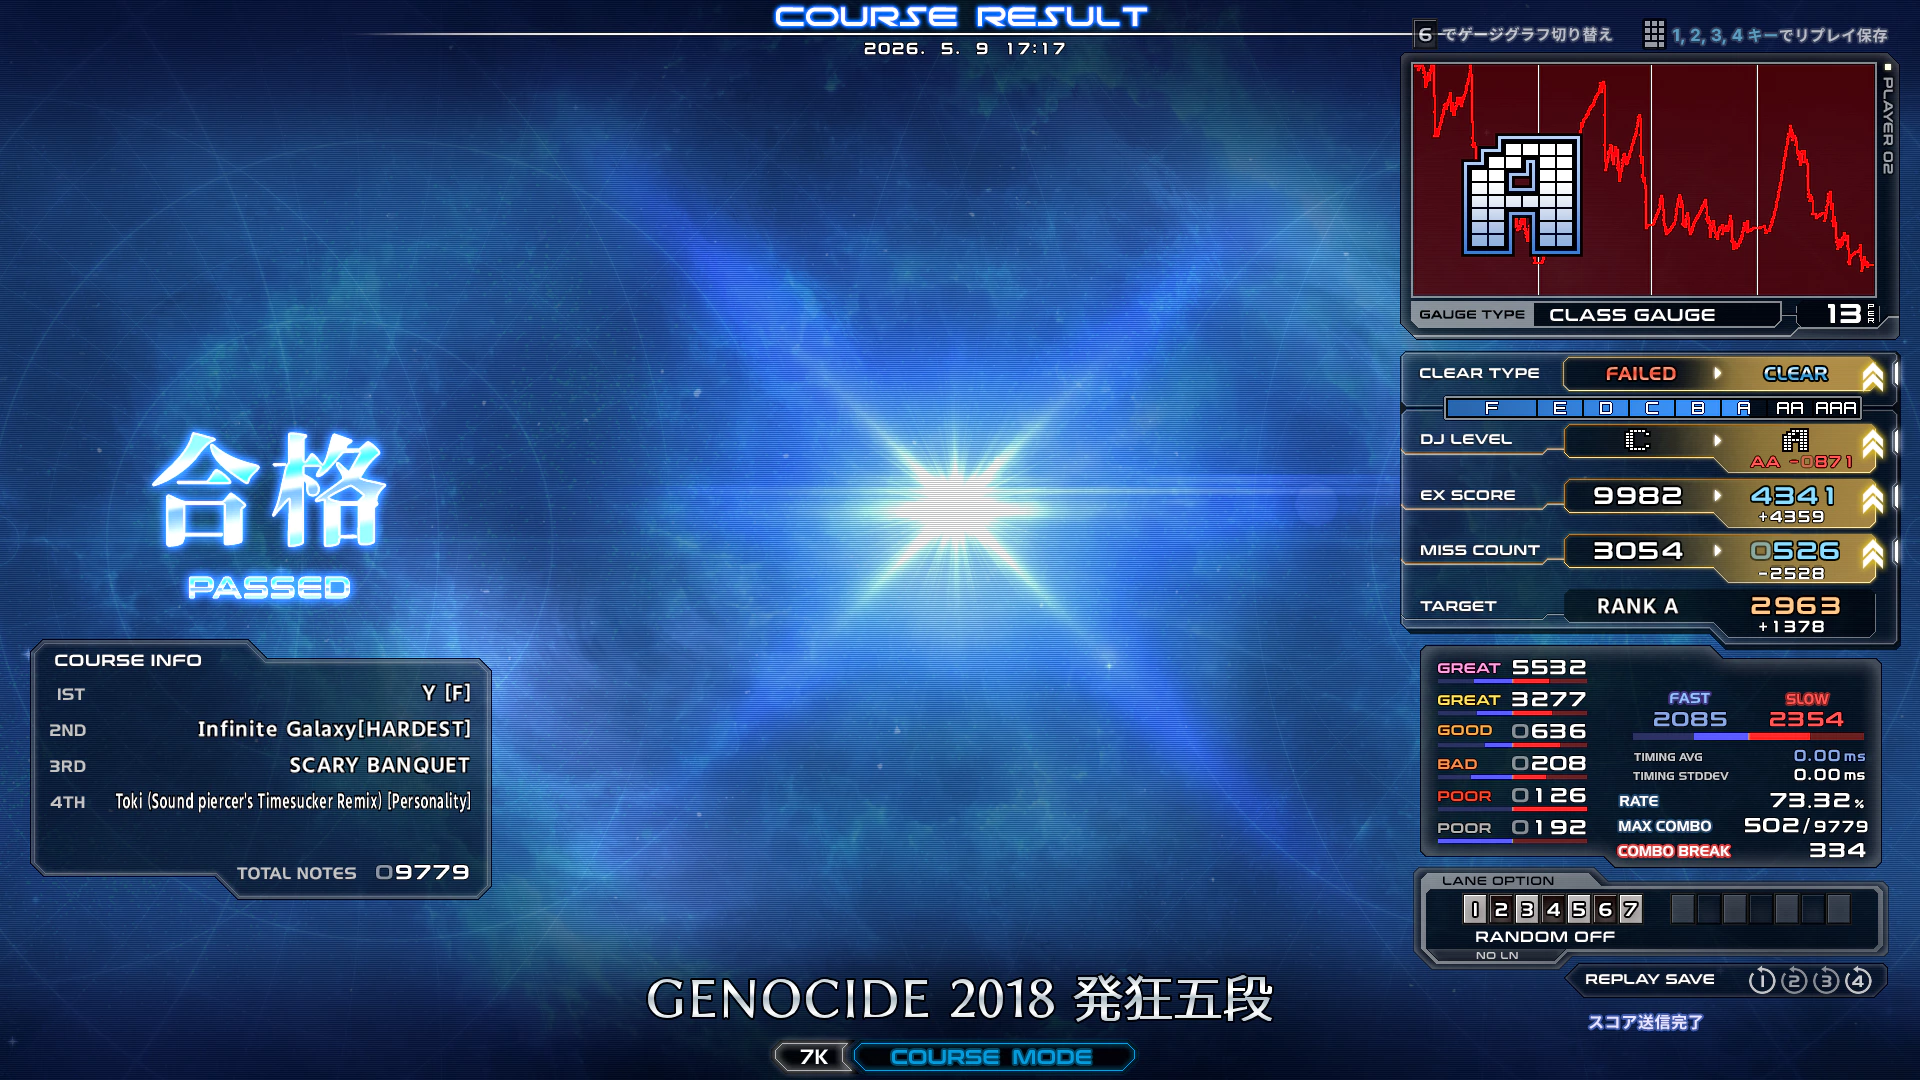
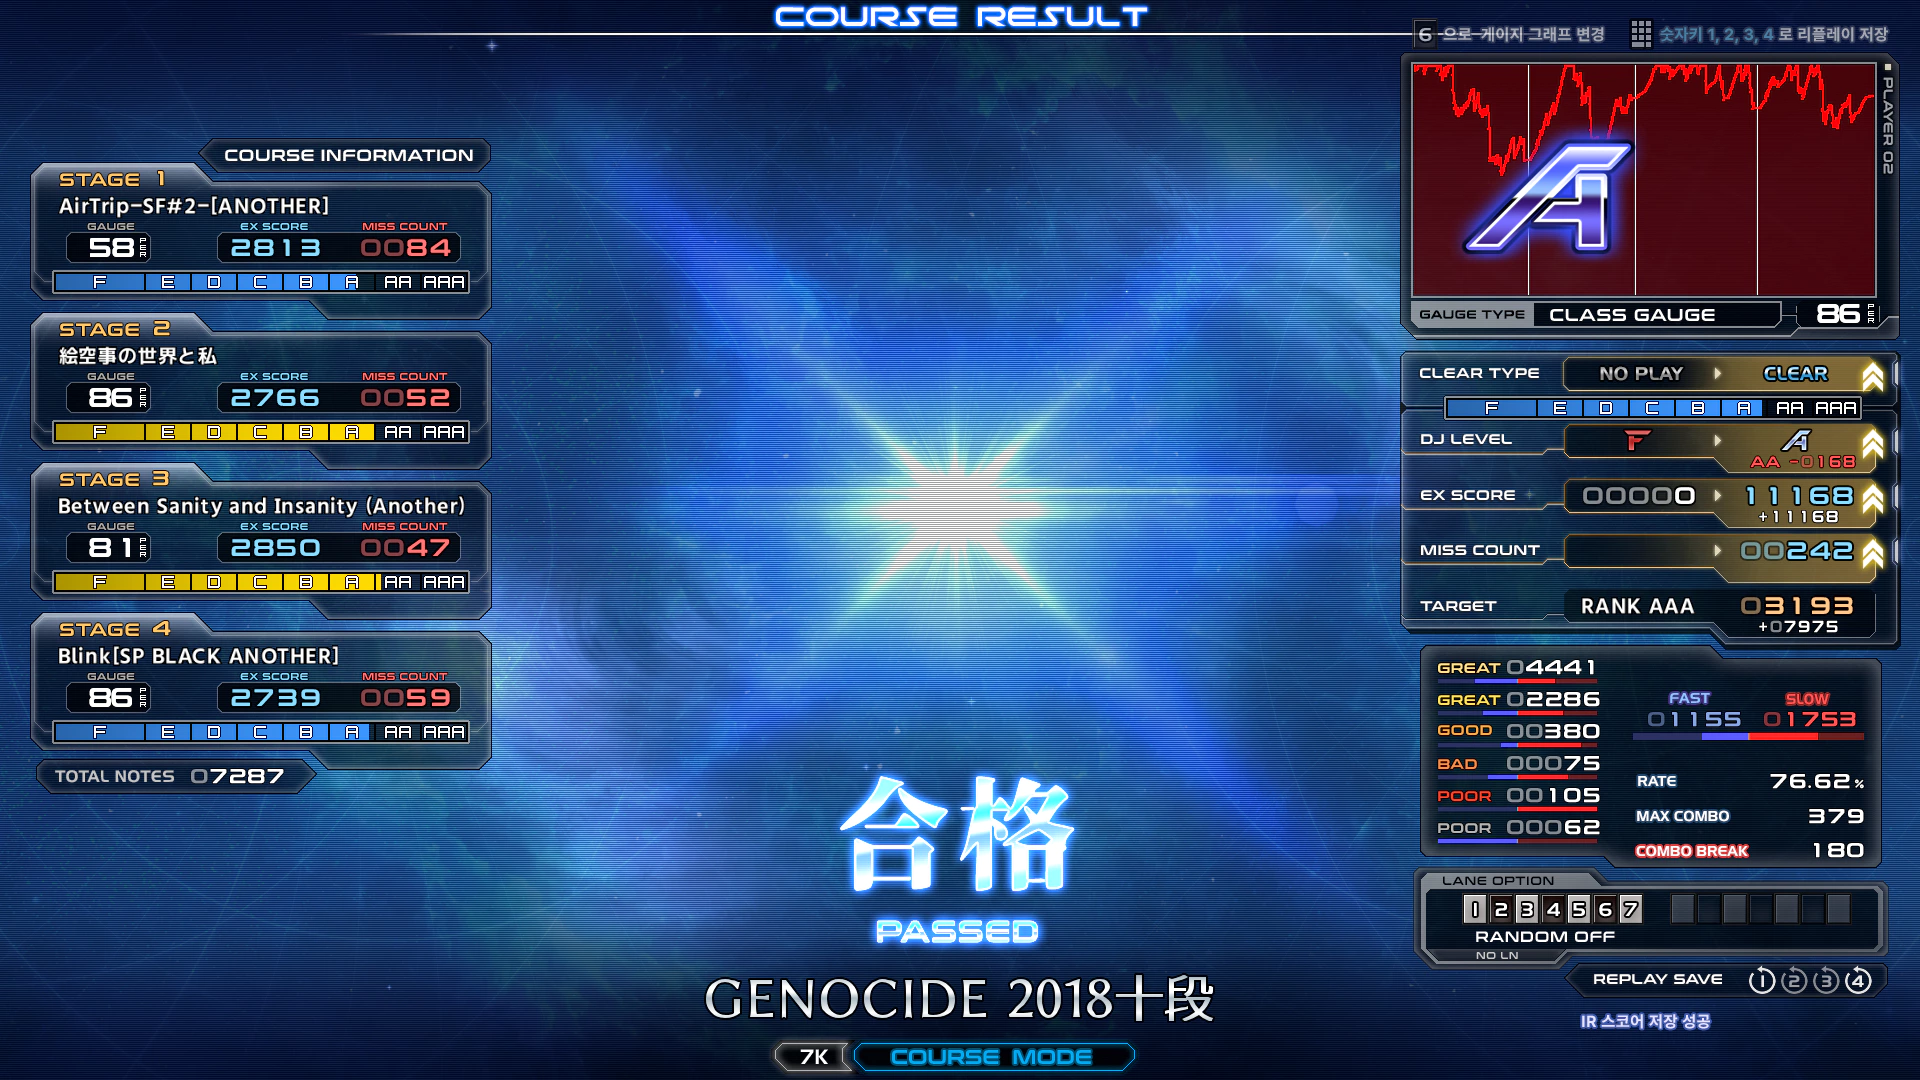
update

diff --git a/src/App.tsx b/src/App.tsx
@@ -7,15 +7,15 @@ const SKINS = [
     id: 1,
     title: "WMII RESULT SKIN for beatoraja",
     category: "Beatoraja",
-    description: "Beatoraja용 FHD 리절트스킨. 컨트롤러 select나 키보드 w키로 정보창 전환가능",
+    description: "Beatoraja용 FHD 리절트스킨. 컨트롤러 select나 키보드 w키로 정보창 전환가능, 코스리절트 사용시 각 스테이지 정보는 WMII 리절트를 사용해야만 표시가능",
     images: [
       "/images/skins/wmii-result-beatoraja/01.webp",
       "/images/skins/wmii-result-beatoraja/02.webp",
       "/images/skins/wmii-result-beatoraja/03.webp",
       "/images/skins/wmii-result-beatoraja/04.webp",
     ],
-    downloadUrl: "https://drive.google.com/file/d/1EgacWrEkJZSczwUBPE6o1hhK_7zVdkKN/view?usp=sharing",
-    date: "26.05.09",
+    downloadUrl: "https://drive.google.com/file/d/1apxs4aeFvyP_KAa3nHZPA2Qz6LxTA6iA/view?usp=sharing",
+    date: "26.05.10",
   },
   {
     id: 1,
@@ -26,8 +26,8 @@ const SKINS = [
       "/images/skins/wmii-play-beatoraja/01.webp",
       "/images/skins/wmii-play-beatoraja/02.webp",
     ],
-    downloadUrl: "https://drive.google.com/file/d/1z5Z6rzqbKiFV209p6D6iIVyrP9hPt_EP/view?usp=sharing",
-    date: "26.05.09",
+    downloadUrl: "https://drive.google.com/file/d/1ZkHgfdtyeFx4e8KOWxghZSZ4iRikWj79/view?usp=sharing",
+    date: "26.05.10",
   },
   {
     id: 2,
@@ -38,8 +38,8 @@ const SKINS = [
       "/images/skins/wmii-play-lr2/01.webp",
       "/images/skins/wmii-play-lr2/02.webp",
     ],
-    downloadUrl: "https://drive.google.com/file/d/1hnsICcEVBkNNUqNWrR2feq_vLhQIpsUw/view?usp=sharing",
-    date: "26.05.09",
+    downloadUrl: "https://drive.google.com/file/d/1c5GMCCe_iX0BXrDhHUbZ2BIFtpiQun40/view?usp=sharing",
+    date: "26.05.10",
   },
   {
     id: 3,
@@ -365,8 +365,8 @@ export default function App() {
               </div>
               <div className="space-y-3">
                 <div className="flex flex-col md:flex-row md:items-center gap-2 md:gap-4">
-                  <span className="text-xs font-mono font-bold text-point bg-teal-50 px-2 py-0.5 rounded w-fit">26.05.09</span>
-                  <p className="text-sm text-slate-600 font-medium">WMII RESULT SKIN 코스 리절트 추가 / WMII PLAY SKIN sp스킨 스코어그래프 그래프 시작지점 1픽셀 틈 수정</p>
+                  <span className="text-xs font-mono font-bold text-point bg-teal-50 px-2 py-0.5 rounded w-fit">26.05.10</span>
+                  <p className="text-sm text-slate-600 font-medium">WMII RESULT SKIN 코스 리절트 추가 / WMII PLAY SKIN sp스킨 스코어그래프 그래프 시작지점 1픽셀 틈 수정, 5스테이지짜리 코스를 할 경우 4th stage표시가 이상한것을 수정</p>
                 </div>  
                  <div className="flex flex-col md:flex-row md:items-center gap-2 md:gap-4">
                   <span className="text-xs font-mono font-bold text-point bg-teal-50 px-2 py-0.5 rounded w-fit">26.05.07</span>
